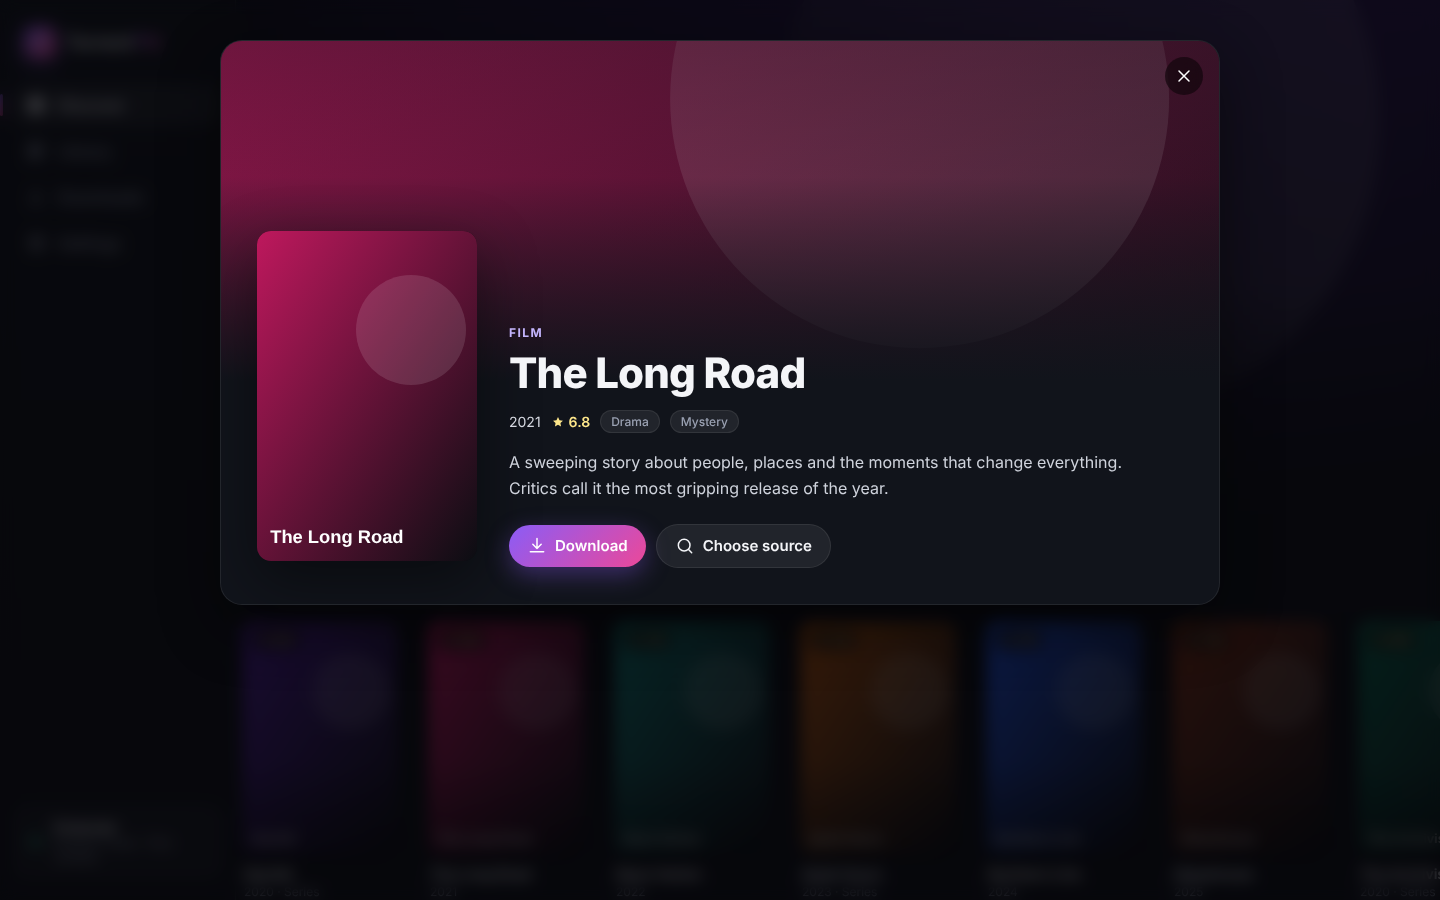
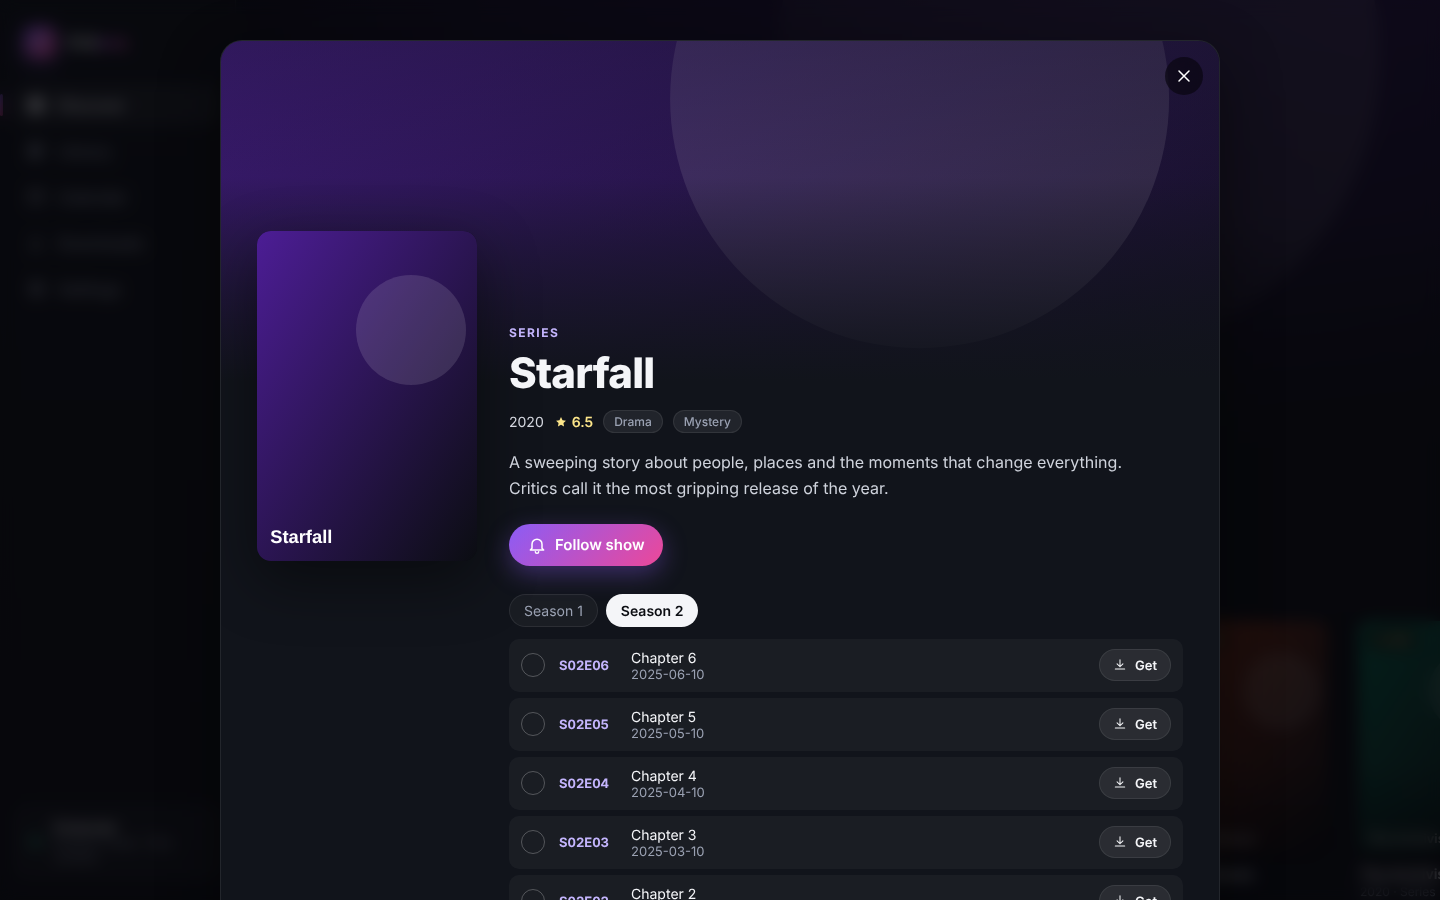
Rename the app to Vidora
App name, title, PWA manifest, installers (Windows/Mac/Linux/Android),
Android package id, desktop downloads folder, README, install guide and
screenshots now say Vidora. The repository name is unchanged.

Claude-Session: https://claude.ai/code/session_01HrYUd5HfFqiLfs7uQ92XC8

diff --git a/src/ui/views/Settings.tsx b/src/ui/views/Settings.tsx
@@ -85,7 +85,7 @@ export function Settings() {
 
       <section className="card">
         <h2><Icon name="key" />Artwork and info</h2>
-        <p className="muted">Torrent TV uses The Movie Database for posters, descriptions and episode schedules. Get a free key at <a href="https://www.themoviedb.org/settings/api" target="_blank" rel="noreferrer">themoviedb.org</a>, then paste it here.</p>
+        <p className="muted">Vidora uses The Movie Database for posters, descriptions and episode schedules. Get a free key at <a href="https://www.themoviedb.org/settings/api" target="_blank" rel="noreferrer">themoviedb.org</a>, then paste it here.</p>
         <div className="field-row">
           <input type="password" value={key} onChange={(e) => setKey(e.target.value)} placeholder="TMDB API key or read access token" autoComplete="off" spellCheck={false} />
           <button className="btn primary" onClick={saveKey} disabled={!key.trim() || testing}>{testing ? 'Checking…' : s.tmdbKey ? 'Update' : 'Connect'}</button>
@@ -182,7 +182,7 @@ export function Settings() {
         <div className="setting">
           <div>
             <strong>Tell me when something is ready to watch</strong>
-            <p className="muted small">{notificationsSupported() ? 'Works while Torrent TV is open or running in the background.' : "This browser doesn't support notifications."}</p>
+            <p className="muted small">{notificationsSupported() ? 'Works while Vidora is open or running in the background.' : "This browser doesn't support notifications."}</p>
           </div>
           <Toggle label="Notifications" on={s.notifications} onChange={async (v) => {
             if (v && !(await requestNotifications())) {
@@ -228,7 +228,7 @@ export function Settings() {
           <p className="ok-text small"><Icon name="check" size={14} />You're using the installed app.</p>
         ) : installPrompt ? (
           <div className="setting">
-            <div><strong>Install Torrent TV on this device</strong><p className="muted small">Adds it to your home screen or app list, opens full screen, works offline for downloaded videos.</p></div>
+            <div><strong>Install Vidora on this device</strong><p className="muted small">Adds it to your home screen or app list, opens full screen, works offline for downloaded videos.</p></div>
             <button className="btn small primary" onClick={() => installPrompt.prompt()}><Icon name="download" size={16} />Install</button>
           </div>
         ) : (
@@ -269,7 +269,7 @@ export function Settings() {
           {feedError && <p className="warn-text small">{feedError}</p>}
           <label className="check">
             <input type="checkbox" checked={ack} onChange={(e) => setAck(e.target.checked)} />
-            <span>I'll only download content I have the right to. Torrent TV doesn't vet feeds I add.</span>
+            <span>I'll only download content I have the right to. Vidora doesn't vet feeds I add.</span>
           </label>
           <button className="btn primary small" disabled={!!feedError || !feed.name || !feed.url || !ack} onClick={addFeed}>Add feed</button>
         </details>

diff --git a/index.html b/index.html
@@ -14,9 +14,9 @@
     <meta name="apple-mobile-web-app-capable" content="yes" />
     <meta name="mobile-web-app-capable" content="yes" />
     <meta name="apple-mobile-web-app-status-bar-style" content="black-translucent" />
-    <meta name="apple-mobile-web-app-title" content="Torrent TV" />
+    <meta name="apple-mobile-web-app-title" content="Vidora" />
     <link rel="manifest" href="./manifest.webmanifest" />
-    <title>Torrent TV</title>
+    <title>Vidora</title>
   </head>
   <body>
     <div id="root"></div>

diff --git a/src/ui/App.tsx b/src/ui/App.tsx
@@ -52,7 +52,7 @@ function Shell() {
       <nav className="sidebar" aria-label="Main">
         <div className="brand">
           <span className="logo"><Icon name="play" size={16} /></span>
-          <span>Torrent<b>TV</b></span>
+          <span>Vid<b>ora</b></span>
         </div>
         {NAV.map((n) => (
           <button key={n.id} className={`nav-item ${view === n.id ? 'active' : ''}`} onClick={() => setView(n.id)} aria-current={view === n.id ? 'page' : undefined}>

diff --git a/public/sw.js b/public/sw.js
@@ -1,7 +1,7 @@
 // Service worker: lets the web app be installed (Android, Chromebook, desktop),
 // opens offline, and shows "ready to watch" notifications.
 // It caches the app itself only; it never caches downloads or API responses.
-const SHELL = 'torrent-tv-shell-v2';
+const SHELL = 'vidora-shell-v3';
 self.addEventListener('install', (e) => {
   self.skipWaiting();
   e.waitUntil(caches.open(SHELL).then((c) => c.addAll(['./', './index.html', './icon-192.png'])));

diff --git a/electron/main.ts b/electron/main.ts
@@ -13,7 +13,7 @@ import { sanitizeMeta, writeArtworkAndInfo, type Meta } from './metadata.js';
 
 const here = dirname(fileURLToPath(import.meta.url));
 const appRoot = resolve(here, '..', '..');
-const downloadRoot = join(app.getPath('downloads'), 'Torrent TV');
+const downloadRoot = join(app.getPath('downloads'), 'Vidora');
 const quarantineRoot = join(downloadRoot, '.quarantine');
 const EXTERNAL_OK = ['archive.org', 'themoviedb.org', 'github.com', 'trakt.tv'];
 

diff --git a/src/core/sources/torznab.ts b/src/core/sources/torznab.ts
@@ -67,7 +67,7 @@ export function createTorznabSource(cfg: TorznabConfig, fetcher: Fetcher = (u, i
   return {
     id: cfg.id,
     name: cfg.name,
-    description: 'Torznab feed you added. Not vetted by Torrent TV.',
+    description: 'Torznab feed you added. Not vetted by Vidora.',
     homepage: base.origin,
     // Indexer managers proxy downloads through themselves, so only that host (or magnets) is trusted.
     allowedHosts: [base.hostname],

diff --git a/capacitor.config.ts b/capacitor.config.ts
@@ -2,8 +2,8 @@ import type { CapacitorConfig } from '@capacitor/cli';
 
 // Android app: the same web app, packaged with Capacitor.
 const config: CapacitorConfig = {
-  appId: 'app.torrenttv.mobile',
-  appName: 'Torrent TV',
+  appId: 'app.vidora.mobile',
+  appName: 'Vidora',
   webDir: 'dist',
   backgroundColor: '#0b0d12',
   android: {

diff --git a/android/app/src/main/java/app/vidora/mobile/MainActivity.java b/android/app/src/main/java/app/vidora/mobile/MainActivity.java
@@ -1,4 +1,4 @@
-package app.torrenttv.mobile;
+package app.vidora.mobile;
 
 import com.getcapacitor.BridgeActivity;
 

diff --git a/docs/INSTALL.md b/docs/INSTALL.md
@@ -1,6 +1,6 @@
-# Installing Torrent TV
+# Installing Vidora
 
-Torrent TV works two ways on every device:
+Vidora works two ways on every device:
 
 - **In the browser**: open the web app and use it straight away, or install it to your home screen / app list so it opens like an app.
 - **As a downloaded app**: an installer for Windows, Mac, Linux / Chromebook, or an Android APK.
@@ -27,34 +27,34 @@ After installing, open **Settings** and paste a free TMDB key (https://www.themo
 1. Open **https://davidrowell11.github.io/torrent-tv/** in **Chrome** or **Samsung Internet**.
 2. Chrome: tap **⋮** (top right) → **Install app** (or **Add to Home screen** → **Install**).
    Samsung Internet: tap **☰** (bottom right) → **Add page to** → **Home screen**.
-3. Open **Torrent TV** from your home screen. It runs full screen and keeps downloads on the phone.
+3. Open **Vidora** from your home screen. It runs full screen and keeps downloads on the phone.
 
 ### Option B: install the Android app (APK)
-1. On the phone, open **https://github.com/davidrowell11/torrent-tv/releases/latest** and tap **TorrentTV-android.apk**.
+1. On the phone, open **https://github.com/davidrowell11/torrent-tv/releases/latest** and tap **Vidora-android.apk**.
 2. When asked, allow your browser to **install unknown apps** (Settings → Apps → *your browser* → Install unknown apps → Allow). This is needed for any app that isn't from the Play Store.
 3. Open the downloaded file and tap **Install**. If Play Protect asks, tap **Install anyway**: the app isn't on the Play Store, so Google hasn't scanned it.
-4. Open **Torrent TV**. Allow notifications if you want "ready to watch" alerts.
+4. Open **Vidora**. Allow notifications if you want "ready to watch" alerts.
 
 **Tips for phones:** Settings → Quality is preset to 720p with a 2 GB limit so downloads fit comfortably. Download over Wi-Fi. Turn on **Delete after watching** to keep storage free.
 
 ## iPhone or iPad
 1. Open **https://davidrowell11.github.io/torrent-tv/** in **Safari**.
 2. Tap **Share** (□↑) → **Add to Home Screen** → **Add**.
-3. Open Torrent TV from the home screen. (Apple doesn't allow apps like this outside the App Store, so there's no separate iPhone download.)
+3. Open Vidora from the home screen. (Apple doesn't allow apps like this outside the App Store, so there's no separate iPhone download.)
 
 ## Windows
-1. Download **Torrent TV Setup x.y.z.exe** from the releases page.
+1. Download **Vidora Setup x.y.z.exe** from the releases page.
 2. Run it. Windows may show **"Windows protected your PC"** because the app isn't code-signed yet: click **More info** → **Run anyway**.
 3. Microsoft Defender (built in) scans every download automatically.
 
 ## Mac
-1. Download **Torrent TV-x.y.z.dmg** from the releases page, open it, and drag **Torrent TV** into **Applications**.
+1. Download **Vidora-x.y.z.dmg** from the releases page, open it, and drag **Vidora** into **Applications**.
 2. The first time, **right-click** (or Control-click) the app → **Open** → **Open**, because it isn't notarized by Apple yet. Or: System Settings → Privacy & Security → **Open Anyway**.
 3. For virus scanning, install ClamAV once: `brew install clamav && freshclam` (needs Homebrew from https://brew.sh).
 
 ## Chromebook
 - **Easiest:** open **https://davidrowell11.github.io/torrent-tv/** in Chrome → click the **install icon** in the address bar (or ⋮ → **Cast, save and share** → **Install page as app**).
-- **Full desktop app (virus scan + VPN kill switch):** turn on Linux (Settings → About ChromeOS → Developers → Linux development environment), download the **.deb** from the releases page, double-click it, and choose **Install**. Then run `sudo apt install clamav` in the Linux terminal for virus scanning. Torrent TV appears in your launcher.
+- **Full desktop app (virus scan + VPN kill switch):** turn on Linux (Settings → About ChromeOS → Developers → Linux development environment), download the **.deb** from the releases page, double-click it, and choose **Install**. Then run `sudo apt install clamav` in the Linux terminal for virus scanning. Vidora appears in your launcher.
 - Some school or work Chromebooks block Linux and unknown apps; use the browser version there.
 
 ## Linux
@@ -70,8 +70,8 @@ Download the **.deb** (Ubuntu, Debian, Mint) and open it, or the **.AppImage** (
 
 ## Uninstalling
 - Android: long-press the icon → **Uninstall** (or **Remove** for the browser version).
-- Windows: Settings → Apps → Torrent TV → Uninstall. Mac: drag it from Applications to the Bin.
-- Downloaded videos from the desktop app are in your **Downloads/Torrent TV** folder; delete it to remove them.
+- Windows: Settings → Apps → Vidora → Uninstall. Mac: drag it from Applications to the Bin.
+- Downloaded videos from the desktop app are in your **Downloads/Vidora** folder; delete it to remove them.
 
 ## For the repository owner: publishing
 - **Web app:** one-time, open the repo's **Settings → Pages** and set **Source** to **GitHub Actions**. Every push to `main` then updates the web app.

diff --git a/README.md b/README.md
@@ -1,6 +1,6 @@
-# Torrent TV
+# Vidora
 
-Pick the shows and films you love. Torrent TV downloads them, fetches new episodes automatically as they air, shows posters and details for everything, and checks every file before it reaches you.
+Pick the shows and films you love. Vidora downloads them, fetches new episodes automatically as they air, shows posters and details for everything, and checks every file before it reaches you.
 
 Use it in any browser (and install it to your phone's home screen), or download the app for **Android, Windows, Mac, Linux and Chromebook**. **[How to install on each device →](docs/INSTALL.md)**
 
@@ -35,7 +35,7 @@ Use it in any browser (and install it to your phone's home screen), or download 
 
 Built in: **Internet Archive**, which hosts thousands of public domain films and classic TV episodes with official, verified torrents.
 
-Advanced: add your own **Torznab** feed (the standard used by Sonarr and Radarr, usually through a self-hosted Prowlarr or Jackett). Torrent TV doesn't ship or recommend any indexers; you choose what to connect and are responsible for downloading only content you have the right to. Results from your feeds pass the same safety checks, plus a minimum-seeders bar.
+Advanced: add your own **Torznab** feed (the standard used by Sonarr and Radarr, usually through a self-hosted Prowlarr or Jackett). Vidora doesn't ship or recommend any indexers; you choose what to connect and are responsible for downloading only content you have the right to. Results from your feeds pass the same safety checks, plus a minimum-seeders bar.
 
 ## Getting started
 

diff --git a/SECURITY.md b/SECURITY.md
@@ -1,6 +1,6 @@
 # Security model
 
-Torrent TV assumes every torrent is hostile until proven otherwise. Each download passes these layers in order:
+Vidora assumes every torrent is hostile until proven otherwise. Each download passes these layers in order:
 
 | Layer | What it does | Where |
 |---|---|---|
